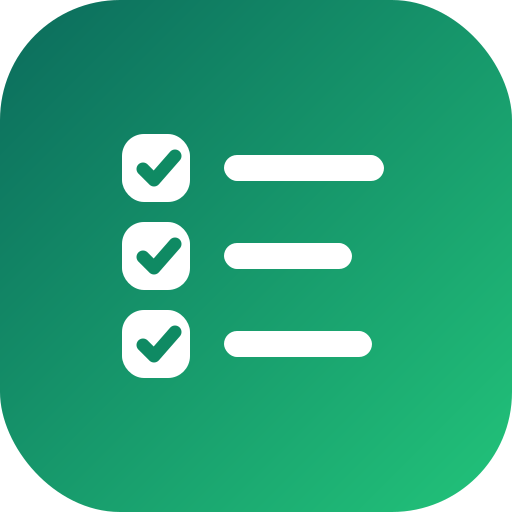
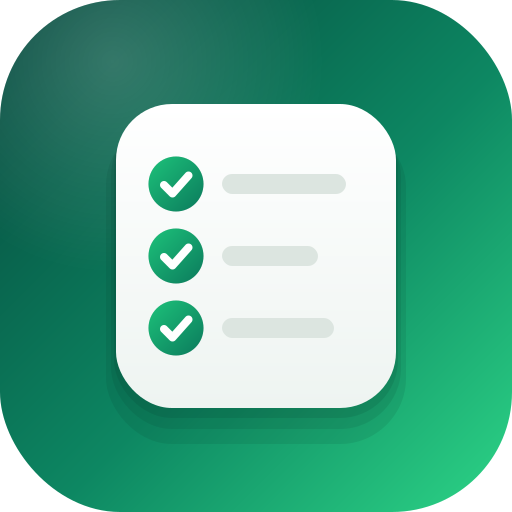
Ajustes en rueda dentada (editar y tema dentro), KPI sin cabecera, progreso del Dashboard con anillo y segmentos, nuevo icono
Claude-Session: https://claude.ai/code/session_01NhNzyCuWANDSU6zG5z4xzY

diff --git a/index.html b/index.html
@@ -10,9 +10,9 @@
 <meta name="mobile-web-app-capable" content="yes">
 <meta name="apple-mobile-web-app-status-bar-style" content="black-translucent">
 <meta name="apple-mobile-web-app-title" content="Checklist">
-<link rel="manifest" href="manifest.webmanifest?v=7">
-<link rel="icon" href="icon.svg?v=4" type="image/svg+xml">
-<link rel="apple-touch-icon" href="icon-180.png?v=4">
+<link rel="manifest" href="manifest.webmanifest?v=8">
+<link rel="icon" href="icon.svg?v=8" type="image/svg+xml">
+<link rel="apple-touch-icon" href="icon-180.png?v=8">
 <link rel="preconnect" href="https://fonts.googleapis.com">
 <link rel="preconnect" href="https://fonts.gstatic.com" crossorigin>
 <link href="https://fonts.googleapis.com/css2?family=Instrument+Serif:ital@0;1&family=Inter:wght@400;500;600;700;800&display=swap" rel="stylesheet">
@@ -50,7 +50,7 @@ svg{display:block}
 #splash .mark{width:104px;height:104px;animation:pop .7s cubic-bezier(.2,1.4,.4,1) both}
 #splash .mark .ck{stroke-dasharray:1;stroke-dashoffset:1}
 #splash .mark .bx{fill-opacity:0}
-#splash .mark .ln{opacity:.35}
+#splash .mark .ln{opacity:.45}
 #splash .mark .bx0{animation:fillb .2s .85s forwards}#splash .mark .ck0{animation:draw .3s .85s cubic-bezier(.6,0,.2,1) forwards}#splash .mark .ln0{animation:lit .3s .85s forwards}
 #splash .mark .bx1{animation:fillb .2s 1.6s forwards}#splash .mark .ck1{animation:draw .3s 1.6s cubic-bezier(.6,0,.2,1) forwards}#splash .mark .ln1{animation:lit .3s 1.6s forwards}
 #splash .mark .bx2{animation:fillb .2s 2.3s forwards}#splash .mark .ck2{animation:draw .3s 2.3s cubic-bezier(.6,0,.2,1) forwards}#splash .mark .ln2{animation:lit .3s 2.3s forwards}
@@ -82,17 +82,17 @@ svg{display:block}
   background-image:radial-gradient(rgba(255,255,255,.9) 1px,transparent 1.2px);background-size:16px 16px;
   -webkit-mask-image:linear-gradient(200deg,#000 0%,transparent 55%);mask-image:linear-gradient(200deg,#000 0%,transparent 55%)}
 
-.k-top{display:flex;align-items:center;gap:9px;height:44px}
+.k-top{display:flex;align-items:center;justify-content:space-between;height:42px;margin:0 0 0 2px}
 .k-top .logo{width:30px;height:30px;border-radius:9px;box-shadow:0 0 0 1px rgba(255,255,255,.25)}
 .k-top .word{font-family:var(--serif);font-size:23px;letter-spacing:-.2px;flex:1;opacity:.95}
-.gbtn{width:40px;height:40px;border-radius:13px;display:grid;place-items:center;background:rgba(255,255,255,.12);
+.gbtn{width:42px;height:42px;border-radius:13px;display:grid;place-items:center;background:rgba(255,255,255,.12);
   box-shadow:inset 0 0 0 1px rgba(255,255,255,.16);backdrop-filter:blur(8px);-webkit-backdrop-filter:blur(8px);transition:transform .15s,background .2s}
 .gbtn:active{transform:scale(.9);background:rgba(255,255,255,.24)}
-.gbtn svg{width:19px;height:19px}
+.gbtn svg{width:21px;height:21px;transition:transform .5s cubic-bezier(.3,.9,.3,1)}.gbtn:active svg{transform:rotate(60deg)}
 .gbtn.on{background:#fff;color:var(--k2)}
 .sun{display:none}:root[data-theme="dark"] .sun{display:block}:root[data-theme="dark"] .moon{display:none}
 
-.k-head{margin:14px 2px 0}
+.k-head{margin:4px 2px 0}
 .k-eyebrow{display:inline-flex;align-items:center;gap:7px;font-size:11.5px;font-weight:700;letter-spacing:.14em;text-transform:uppercase;opacity:.75}
 .k-eyebrow i{width:6px;height:6px;border-radius:50%;background:var(--glow);box-shadow:0 0 0 3px color-mix(in srgb,var(--glow) 30%,transparent);animation:pulse 2s infinite}
 @keyframes pulse{50%{box-shadow:0 0 0 6px transparent}}
@@ -191,6 +191,19 @@ svg{display:block}
 .sub .t{font-size:15px}
 .sub .t i{font-style:normal;color:var(--faint);font-variant-numeric:tabular-nums;margin-right:7px;font-size:12.5px;font-weight:700}
 
+
+/* progreso de tareas con pasos */
+.rbox{border:0!important;background:none!important;box-shadow:none!important;animation:none!important}
+.rbox .rg{position:absolute;inset:-2px;width:31px;height:31px;transform:rotate(-90deg);stroke-dasharray:none;stroke-dashoffset:0;stroke:none}
+.rbox .rt{stroke:var(--line)}
+.rbox .ra{stroke:var(--acc);transition:stroke-dashoffset .6s cubic-bezier(.3,.9,.3,1)}
+.done>.row .rbox{background:var(--acc)!important;box-shadow:0 4px 12px -4px color-mix(in srgb,var(--acc) 70%,transparent)!important}
+.done>.row .rbox .rg{opacity:0}
+.segbar{display:flex;gap:3px;margin-top:11px}
+.segbar i{flex:1;height:5px;border-radius:3px;background:var(--line);transition:background .3s}
+.segbar i.on{background:linear-gradient(90deg,var(--acc2),var(--acc))}
+.pill{font-size:13px;font-weight:600;color:var(--faint)}.pill b{color:var(--ink);font-weight:800;font-size:15px}
+.done .pill b{color:var(--acc)}
 /* edición */
 .erow{display:flex;gap:10px;align-items:flex-start;padding:12px 12px 12px 14px}
 .erow .fields{flex:1;display:flex;flex-direction:column;gap:6px;min-width:0}
@@ -213,7 +226,8 @@ footer{text-align:center;color:var(--faint);font-size:12.5px;margin-top:34px;lin
 .sheet{position:fixed;left:0;right:0;bottom:0;z-index:41;max-width:560px;margin:0 auto;background:var(--card);border-radius:28px 28px 0 0;padding:10px 16px calc(env(safe-area-inset-bottom) + 18px);transform:translateY(105%);transition:transform .38s cubic-bezier(.3,.9,.3,1);box-shadow:0 -10px 40px rgba(0,0,0,.18)}
 .sheet.on{transform:none}.scrim.on{opacity:1;visibility:visible}
 .grab{width:40px;height:5px;border-radius:5px;background:var(--line);margin:0 auto 14px}
-.sheet h3{margin:4px 6px 12px;font-size:12px;letter-spacing:.1em;text-transform:uppercase;color:var(--mute);font-weight:700}
+.sheet-title{font-size:22px;font-weight:800;letter-spacing:-.5px;margin:0 6px 8px}.mi .ic.acc{background:var(--accSoft)}.mi .ic.acc svg{color:var(--acc)}
+.sheet h3{margin-top:14px!important;margin:4px 6px 12px;font-size:12px;letter-spacing:.1em;text-transform:uppercase;color:var(--mute);font-weight:700}
 .seg{display:grid;grid-template-columns:repeat(3,1fr);background:var(--card2);border:1px solid var(--line);border-radius:14px;padding:4px;margin-bottom:12px}
 .seg button{padding:10px 0;border-radius:10px;font-size:14px;font-weight:600;color:var(--mute);transition:.2s}
 .seg button.on{background:var(--card);color:var(--ink);box-shadow:var(--shadow)}
@@ -247,7 +261,10 @@ footer{text-align:center;color:var(--faint);font-size:12.5px;margin-top:34px;lin
 <body>
 
 <div id="splash" aria-hidden="true">
-  <svg class="mark" viewBox="0 0 512 512"><defs><linearGradient id="sg" x1="0" y1="0" x2="1" y2="1"><stop offset="0" stop-color="#0B6B5C"/><stop offset="1" stop-color="#22C47A"/></linearGradient></defs><rect width="512" height="512" rx="120" fill="url(#sg)"/><rect class="bx bx0" x="128" y="140" width="56" height="56" rx="16" fill="#fff" stroke="#fff" stroke-width="12"/><rect class="ln ln0" x="224" y="155" width="160" height="26" rx="13" fill="#fff"/><path class="ck ck0" pathLength="1" d="M143 169l11 11 21-24" fill="none" stroke="#0F8A63" stroke-width="13" stroke-linecap="round" stroke-linejoin="round"/><rect class="bx bx1" x="128" y="228" width="56" height="56" rx="16" fill="#fff" stroke="#fff" stroke-width="12"/><rect class="ln ln1" x="224" y="243" width="128" height="26" rx="13" fill="#fff"/><path class="ck ck1" pathLength="1" d="M143 257l11 11 21-24" fill="none" stroke="#0F8A63" stroke-width="13" stroke-linecap="round" stroke-linejoin="round"/><rect class="bx bx2" x="128" y="316" width="56" height="56" rx="16" fill="#fff" stroke="#fff" stroke-width="12"/><rect class="ln ln2" x="224" y="331" width="148" height="26" rx="13" fill="#fff"/><path class="ck ck2" pathLength="1" d="M143 345l11 11 21-24" fill="none" stroke="#0F8A63" stroke-width="13" stroke-linecap="round" stroke-linejoin="round"/></svg>
+  <svg class="mark" viewBox="0 0 512 512"><defs><linearGradient id="sg" x1="0" y1="0" x2="1" y2="1"><stop offset="0" stop-color="#05463C"/><stop offset=".55" stop-color="#0D8762"/><stop offset="1" stop-color="#2DD587"/></linearGradient>
+<radialGradient id="sgh" cx=".22" cy=".12" r=".75"><stop offset="0" stop-color="#fff" stop-opacity=".18"/><stop offset=".55" stop-color="#fff" stop-opacity="0"/></radialGradient>
+<linearGradient id="sgc" x1="0" y1="0" x2="0" y2="1"><stop offset="0" stop-color="#FFFFFF"/><stop offset="1" stop-color="#EEF4F1"/></linearGradient>
+<linearGradient id="sgk" x1="0" y1="0" x2="1" y2="1"><stop offset="0" stop-color="#1DC27A"/><stop offset="1" stop-color="#0B7A5C"/></linearGradient></defs><rect width="512" height="512" rx="120" fill="url(#sg)"/><rect width="512" height="512" rx="120" fill="url(#sgh)"/><rect x="106" y="120" width="300" height="324" rx="66" fill="#022A23" opacity="0.1"/><rect x="111" y="115" width="290" height="314" rx="61" fill="#022A23" opacity="0.1"/><rect x="114" y="110" width="284" height="308" rx="58" fill="#022A23" opacity="0.12"/><rect x="116" y="104" width="280" height="304" rx="56" fill="url(#sgc)"/><circle cx="176" cy="184" r="25" fill="#fff" stroke="#D2DCD7" stroke-width="5"/><circle class="bx bx0" cx="176" cy="184" r="27.5" fill="url(#sgk)"/><path class="ck ck0" pathLength="1" d="M164 185l8.5 8.5 16-18" fill="none" stroke="#fff" stroke-width="8" stroke-linecap="round" stroke-linejoin="round"/><rect class="ln ln0" x="222" y="174" width="124" height="20" rx="10" fill="#DCE5E0"/><circle cx="176" cy="256" r="25" fill="#fff" stroke="#D2DCD7" stroke-width="5"/><circle class="bx bx1" cx="176" cy="256" r="27.5" fill="url(#sgk)"/><path class="ck ck1" pathLength="1" d="M164 257l8.5 8.5 16-18" fill="none" stroke="#fff" stroke-width="8" stroke-linecap="round" stroke-linejoin="round"/><rect class="ln ln1" x="222" y="246" width="96" height="20" rx="10" fill="#DCE5E0"/><circle cx="176" cy="328" r="25" fill="#fff" stroke="#D2DCD7" stroke-width="5"/><circle class="bx bx2" cx="176" cy="328" r="27.5" fill="url(#sgk)"/><path class="ck ck2" pathLength="1" d="M164 329l8.5 8.5 16-18" fill="none" stroke="#fff" stroke-width="8" stroke-linecap="round" stroke-linejoin="round"/><rect class="ln ln2" x="222" y="318" width="112" height="20" rx="10" fill="#DCE5E0"/></svg>
   <div class="word">Checklist</div>
   <div class="bar"><i></i></div>
 </div>
@@ -258,18 +275,10 @@ footer{text-align:center;color:var(--faint);font-size:12.5px;margin-top:34px;lin
   <section class="kpi" id="kpi">
     <div class="aur"></div><div class="dots"></div>
     <div class="k-top">
-      <svg class="logo" viewBox="0 0 512 512"><defs><linearGradient id="lg" x1="0" y1="0" x2="1" y2="1"><stop offset="0" stop-color="#0B6B5C"/><stop offset="1" stop-color="#22C47A"/></linearGradient></defs><rect width="512" height="512" rx="120" fill="url(#lg)"/><rect x="128" y="140" width="56" height="56" rx="16" fill="#fff" stroke="#fff" stroke-width="12"/><rect x="224" y="155" width="160" height="26" rx="13" fill="#fff"/><path d="M143 169l11 11 21-24" fill="none" stroke="#0F8A63" stroke-width="13" stroke-linecap="round" stroke-linejoin="round"/><rect x="128" y="228" width="56" height="56" rx="16" fill="#fff" stroke="#fff" stroke-width="12"/><rect x="224" y="243" width="128" height="26" rx="13" fill="#fff"/><path d="M143 257l11 11 21-24" fill="none" stroke="#0F8A63" stroke-width="13" stroke-linecap="round" stroke-linejoin="round"/><rect x="128" y="316" width="56" height="56" rx="16" fill="#fff" stroke="#fff" stroke-width="12"/><rect x="224" y="331" width="148" height="26" rx="13" fill="#fff"/><path d="M143 345l11 11 21-24" fill="none" stroke="#0F8A63" stroke-width="13" stroke-linecap="round" stroke-linejoin="round"/></svg>
-      <div class="word">Checklist</div>
-      <button class="gbtn" id="editBtn" aria-label="Editar tareas"><svg viewBox="0 0 24 24" fill="none" stroke="currentColor" stroke-width="1.9" stroke-linecap="round" stroke-linejoin="round"><path d="M4 20h4L19 9l-4-4L4 16v4zM13.5 6.5l4 4"/></svg></button>
-      <button class="gbtn" id="themeBtn" aria-label="Cambiar tema">
-        <svg class="moon" viewBox="0 0 24 24" fill="none" stroke="currentColor" stroke-width="1.9" stroke-linecap="round" stroke-linejoin="round"><path d="M20 14.5A8 8 0 0 1 9.5 4a8 8 0 1 0 10.5 10.5z"/></svg>
-        <svg class="sun" viewBox="0 0 24 24" fill="none" stroke="currentColor" stroke-width="1.9" stroke-linecap="round"><circle cx="12" cy="12" r="4.2"/><path d="M12 2.5v2M12 19.5v2M4.6 4.6 6 6M18 18l1.4 1.4M2.5 12h2M19.5 12h2M4.6 19.4 6 18M18 6l1.4-1.4"/></svg>
-      </button>
-      <button class="gbtn" id="menuBtn" aria-label="Menú"><svg viewBox="0 0 24 24" fill="currentColor"><circle cx="5" cy="12" r="1.9"/><circle cx="12" cy="12" r="1.9"/><circle cx="19" cy="12" r="1.9"/></svg></button>
-    </div>
-
-    <div class="k-head">
       <div class="k-eyebrow"><i></i>Actualizando</div>
+      <button class="gbtn" id="menuBtn" aria-label="Ajustes"><svg viewBox="0 0 24 24" fill="none" stroke="currentColor" stroke-width="1.8" stroke-linecap="round" stroke-linejoin="round"><path d="M12 15.2a3.2 3.2 0 1 0 0-6.4 3.2 3.2 0 0 0 0 6.4z"/><path d="M19.4 15a1.65 1.65 0 0 0 .33 1.82l.06.06a2 2 0 1 1-2.83 2.83l-.06-.06a1.65 1.65 0 0 0-1.82-.33 1.65 1.65 0 0 0-1 1.51V21a2 2 0 1 1-4 0v-.09A1.65 1.65 0 0 0 9 19.4a1.65 1.65 0 0 0-1.82.33l-.06.06a2 2 0 1 1-2.83-2.83l.06-.06A1.65 1.65 0 0 0 4.68 15a1.65 1.65 0 0 0-1.51-1H3a2 2 0 1 1 0-4h.09A1.65 1.65 0 0 0 4.6 9a1.65 1.65 0 0 0-.33-1.82l-.06-.06a2 2 0 1 1 2.83-2.83l.06.06A1.65 1.65 0 0 0 9 4.68a1.65 1.65 0 0 0 1-1.51V3a2 2 0 1 1 4 0v.09a1.65 1.65 0 0 0 1 1.51 1.65 1.65 0 0 0 1.82-.33l.06-.06a2 2 0 1 1 2.83 2.83l-.06.06A1.65 1.65 0 0 0 19.4 9a1.65 1.65 0 0 0 1.51 1H21a2 2 0 1 1 0 4h-.09a1.65 1.65 0 0 0-1.51 1z"/></svg></button>
+    </div>
+    <div class="k-head">
       <h1><span id="kMonth">Noviembre</span> <span class="k-year" id="kYear">2026</span></h1>
     </div>
     <div class="k-body">
@@ -297,11 +306,13 @@ footer{text-align:center;color:var(--faint);font-size:12.5px;margin-top:34px;lin
 <div class="scrim" id="scrim"></div>
 <div class="sheet" id="sheet" role="dialog" aria-label="Menú">
   <div class="grab"></div>
+  <div class="sheet-title">Ajustes</div>
+  <button class="mi" id="miEdit"><span class="ic acc"><svg viewBox="0 0 24 24" fill="none" stroke="currentColor" stroke-width="1.8" stroke-linecap="round" stroke-linejoin="round"><path d="M4 20h4L19 9l-4-4L4 16v4zM13.5 6.5l4 4"/></svg></span><span>Editar checklist<small>Cambiar, añadir o quitar tareas y pasos</small></span></button>
   <h3>Apariencia</h3>
   <div class="seg" id="seg"><button data-t="auto">Auto</button><button data-t="light">Claro</button><button data-t="dark">Oscuro</button></div>
   <button class="mi" id="miInstall"><span class="ic"><svg viewBox="0 0 24 24" fill="none" stroke="currentColor" stroke-width="1.8" stroke-linecap="round" stroke-linejoin="round"><path d="M12 3v12M7 10l5 5 5-5M5 21h14"/></svg></span><span>Instalar app<small>Añádela a tu pantalla de inicio</small></span></button>
   <div class="hint" id="iosHint"></div>
-  <button class="mi" id="miNew"><span class="ic"><svg viewBox="0 0 24 24" fill="none" stroke="currentColor" stroke-width="1.8" stroke-linecap="round" stroke-linejoin="round"><rect x="3" y="5" width="18" height="16" rx="3"/><path d="M3 10h18M8 3v4M16 3v4"/></svg></span><span id="miNewTxt">Empezar nuevo mes</span></button>
+  <button class="mi" id="miNew"><span class="ic"><svg viewBox="0 0 24 24" fill="none" stroke="currentColor" stroke-width="1.8" stroke-linecap="round" stroke-linejoin="round"><rect x="3" y="5" width="18" height="16" rx="3"/><path d="M3 10h18M8 3v4M16 3v4"/></svg></span><span><span id="miNewTxt">Empezar nuevo mes</span><small>Desmarca todo y pasa al mes siguiente</small></span></button>
   <button class="mi" id="miExport"><span class="ic"><svg viewBox="0 0 24 24" fill="none" stroke="currentColor" stroke-width="1.8" stroke-linecap="round" stroke-linejoin="round"><path d="M12 15V3M7 8l5-5 5 5M5 14v5a2 2 0 0 0 2 2h10a2 2 0 0 0 2-2v-5"/></svg></span><span>Exportar copia<small>Para pasar tus datos a otro dispositivo</small></span></button>
   <button class="mi" id="miImport"><span class="ic"><svg viewBox="0 0 24 24" fill="none" stroke="currentColor" stroke-width="1.8" stroke-linecap="round" stroke-linejoin="round"><path d="M12 3v12M7 10l5 5 5-5M5 14v5a2 2 0 0 0 2 2h10a2 2 0 0 0 2-2v-5"/></svg></span><span>Importar copia</span></button>
   <button class="mi danger" id="miReset"><span class="ic"><svg viewBox="0 0 24 24" fill="none" stroke="currentColor" stroke-width="1.8" stroke-linecap="round" stroke-linejoin="round"><path d="M3 12a9 9 0 1 0 3-6.7L3 8M3 3v5h5"/></svg></span><span>Desmarcar todo<small>Reiniciar este mes</small></span></button>
@@ -311,7 +322,10 @@ footer{text-align:center;color:var(--faint);font-size:12.5px;margin-top:34px;lin
 <!-- Celebración -->
 <div id="party" role="dialog" aria-label="Todo completado">
   <div class="box2">
-    <svg class="medal" viewBox="0 0 512 512"><defs><linearGradient id="pg" x1="0" y1="0" x2="1" y2="1"><stop offset="0" stop-color="#0B6B5C"/><stop offset="1" stop-color="#22C47A"/></linearGradient></defs><rect width="512" height="512" rx="120" fill="url(#pg)"/><rect x="128" y="140" width="56" height="56" rx="16" fill="#fff" stroke="#fff" stroke-width="12"/><rect x="224" y="155" width="160" height="26" rx="13" fill="#fff"/><path d="M143 169l11 11 21-24" fill="none" stroke="#0F8A63" stroke-width="13" stroke-linecap="round" stroke-linejoin="round"/><rect x="128" y="228" width="56" height="56" rx="16" fill="#fff" stroke="#fff" stroke-width="12"/><rect x="224" y="243" width="128" height="26" rx="13" fill="#fff"/><path d="M143 257l11 11 21-24" fill="none" stroke="#0F8A63" stroke-width="13" stroke-linecap="round" stroke-linejoin="round"/><rect x="128" y="316" width="56" height="56" rx="16" fill="#fff" stroke="#fff" stroke-width="12"/><rect x="224" y="331" width="148" height="26" rx="13" fill="#fff"/><path d="M143 345l11 11 21-24" fill="none" stroke="#0F8A63" stroke-width="13" stroke-linecap="round" stroke-linejoin="round"/></svg>
+    <svg class="medal" viewBox="0 0 512 512"><defs><linearGradient id="pg" x1="0" y1="0" x2="1" y2="1"><stop offset="0" stop-color="#05463C"/><stop offset=".55" stop-color="#0D8762"/><stop offset="1" stop-color="#2DD587"/></linearGradient>
+<radialGradient id="pgh" cx=".22" cy=".12" r=".75"><stop offset="0" stop-color="#fff" stop-opacity=".18"/><stop offset=".55" stop-color="#fff" stop-opacity="0"/></radialGradient>
+<linearGradient id="pgc" x1="0" y1="0" x2="0" y2="1"><stop offset="0" stop-color="#FFFFFF"/><stop offset="1" stop-color="#EEF4F1"/></linearGradient>
+<linearGradient id="pgk" x1="0" y1="0" x2="1" y2="1"><stop offset="0" stop-color="#1DC27A"/><stop offset="1" stop-color="#0B7A5C"/></linearGradient></defs><rect width="512" height="512" rx="120" fill="url(#pg)"/><rect width="512" height="512" rx="120" fill="url(#pgh)"/><rect x="106" y="120" width="300" height="324" rx="66" fill="#022A23" opacity="0.1"/><rect x="111" y="115" width="290" height="314" rx="61" fill="#022A23" opacity="0.1"/><rect x="114" y="110" width="284" height="308" rx="58" fill="#022A23" opacity="0.12"/><rect x="116" y="104" width="280" height="304" rx="56" fill="url(#pgc)"/><circle cx="176" cy="184" r="25" fill="#fff" stroke="#D2DCD7" stroke-width="5"/><circle cx="176" cy="184" r="27.5" fill="url(#pgk)"/><path d="M164 185l8.5 8.5 16-18" fill="none" stroke="#fff" stroke-width="8" stroke-linecap="round" stroke-linejoin="round"/><rect x="222" y="174" width="124" height="20" rx="10" fill="#DCE5E0"/><circle cx="176" cy="256" r="25" fill="#fff" stroke="#D2DCD7" stroke-width="5"/><circle cx="176" cy="256" r="27.5" fill="url(#pgk)"/><path d="M164 257l8.5 8.5 16-18" fill="none" stroke="#fff" stroke-width="8" stroke-linecap="round" stroke-linejoin="round"/><rect x="222" y="246" width="96" height="20" rx="10" fill="#DCE5E0"/><circle cx="176" cy="328" r="25" fill="#fff" stroke="#D2DCD7" stroke-width="5"/><circle cx="176" cy="328" r="27.5" fill="url(#pgk)"/><path d="M164 329l8.5 8.5 16-18" fill="none" stroke="#fff" stroke-width="8" stroke-linecap="round" stroke-linejoin="round"/><rect x="222" y="318" width="112" height="20" rx="10" fill="#DCE5E0"/></svg>
     <h2>¡Todo hecho!</h2>
     <p id="partyMsg"></p>
     <button class="cta" id="partyOk">Genial</button>
@@ -427,8 +441,8 @@ function render(){
       }else{
         h+=`<div class="item${S.open[t.id]?' open':''}" data-item="${t.id}">
           <div class="row" data-tap="${t.id}">
-            <button class="box" data-check="${t.id}" aria-label="Marcar">${ICON_CHECK}</button>
-            <div class="txt"><div class="t">${esc(t.text)}</div>${t.note?`<div class="n">${esc(t.note)}</div>`:''}${hasSubs?'<div class="pbar"><i data-pb="'+t.id+'"></i></div>':''}</div>
+            ${hasSubs?`<button class="box rbox" data-check="${t.id}" aria-label="Marcar todo"><svg class="rg" viewBox="0 0 32 32"><circle class="rt" cx="16" cy="16" r="13" fill="none" stroke-width="3"/><circle class="ra" cx="16" cy="16" r="13" fill="none" stroke-width="3" stroke-linecap="round" stroke-dasharray="81.7" stroke-dashoffset="81.7"/></svg>${ICON_CHECK}</button>`:`<button class="box" data-check="${t.id}" aria-label="Marcar">${ICON_CHECK}</button>`}
+            <div class="txt"><div class="t">${esc(t.text)}</div>${t.note?`<div class="n">${esc(t.note)}</div>`:''}${hasSubs?'<div class="segbar" data-pb="'+t.id+'">'+t.subs.map(()=>'<i></i>').join('')+'</div>':''}</div>
             ${hasSubs?`<div class="right"><span class="pill" data-pill="${t.id}"></span>${ICON_CHEV}</div>`:''}
           </div>`;
         if(hasSubs){
@@ -444,7 +458,6 @@ function render(){
   });
   $('list').innerHTML=h;
   document.body.classList.toggle('editing',editing);
-  $('editBtn').classList.toggle('on',editing);
   update(true);
 }
 
@@ -462,9 +475,9 @@ function update(silent){
     if(t.subs&&t.subs.length){
       const n=t.subs.filter(u=>S.done[u.id]).length;
       const box=el.querySelector(':scope>.row .box');
-      box.classList.toggle('partial',n>0&&!done);box.style.setProperty('--p',n/t.subs.length);
-      el.querySelector('[data-pill]').textContent=n+'/'+t.subs.length;
-      el.querySelector('[data-pb]').style.width=(n/t.subs.length*100)+'%';
+      box.querySelector('.ra').style.strokeDashoffset=81.7*(1-n/t.subs.length);
+      el.querySelector('[data-pill]').innerHTML='<b>'+n+'</b>/'+t.subs.length;
+      el.querySelectorAll('[data-pb] i').forEach((s,i)=>s.classList.toggle('on',!!S.done[t.subs[i].id]));
       t.subs.forEach(u=>{const e=document.querySelector(`[data-item="${u.id}"]`);e&&e.classList.toggle('done',!!S.done[u.id])});
     }
   }));
@@ -538,7 +551,7 @@ function endEdit(){
   S.sections.forEach(s=>{s.tasks=s.tasks.filter(t=>t.text.trim()||(t.subs&&t.subs.length));s.tasks.forEach(t=>{if(t.subs)t.subs=t.subs.filter(u=>u.text.trim())})});
   editing=false;save();render();toast('Cambios guardados');
 }
-$('editBtn').onclick=()=>{buzz();editing?endEdit():startEdit()};
+$('miEdit').onclick=()=>{closeSheet();startEdit()};
 $('doneEdit').onclick=endEdit;
 
 /* ---- Tema ---- */
@@ -551,7 +564,6 @@ function applyTheme(){
 }
 function setTheme(t){try{localStorage.setItem(TKEY,t)}catch(e){}applyTheme()}
 matchMedia('(prefers-color-scheme: dark)').addEventListener('change',applyTheme);
-$('themeBtn').onclick=()=>{buzz();setTheme(document.documentElement.getAttribute('data-theme')==='dark'?'light':'dark')};
 $('seg').onclick=e=>{const b=e.target.closest('button');if(b)setTheme(b.dataset.t)};
 
 /* ---- Menú ---- */

diff --git a/sw.js b/sw.js
@@ -1,4 +1,4 @@
-const CACHE='checklist-app-7';
+const CACHE='checklist-app-8';
 const SHELL=['./','index.html','manifest.webmanifest','icon.svg','icon-192.png','icon-512.png','icon-180.png'];
 self.addEventListener('install',e=>{e.waitUntil(caches.open(CACHE).then(c=>c.addAll(SHELL)).then(()=>self.skipWaiting()))});
 self.addEventListener('activate',e=>{e.waitUntil(caches.keys().then(k=>Promise.all(k.filter(x=>x.startsWith('checklist')&&x!==CACHE).map(x=>caches.delete(x)))).then(()=>self.clients.claim()))});
